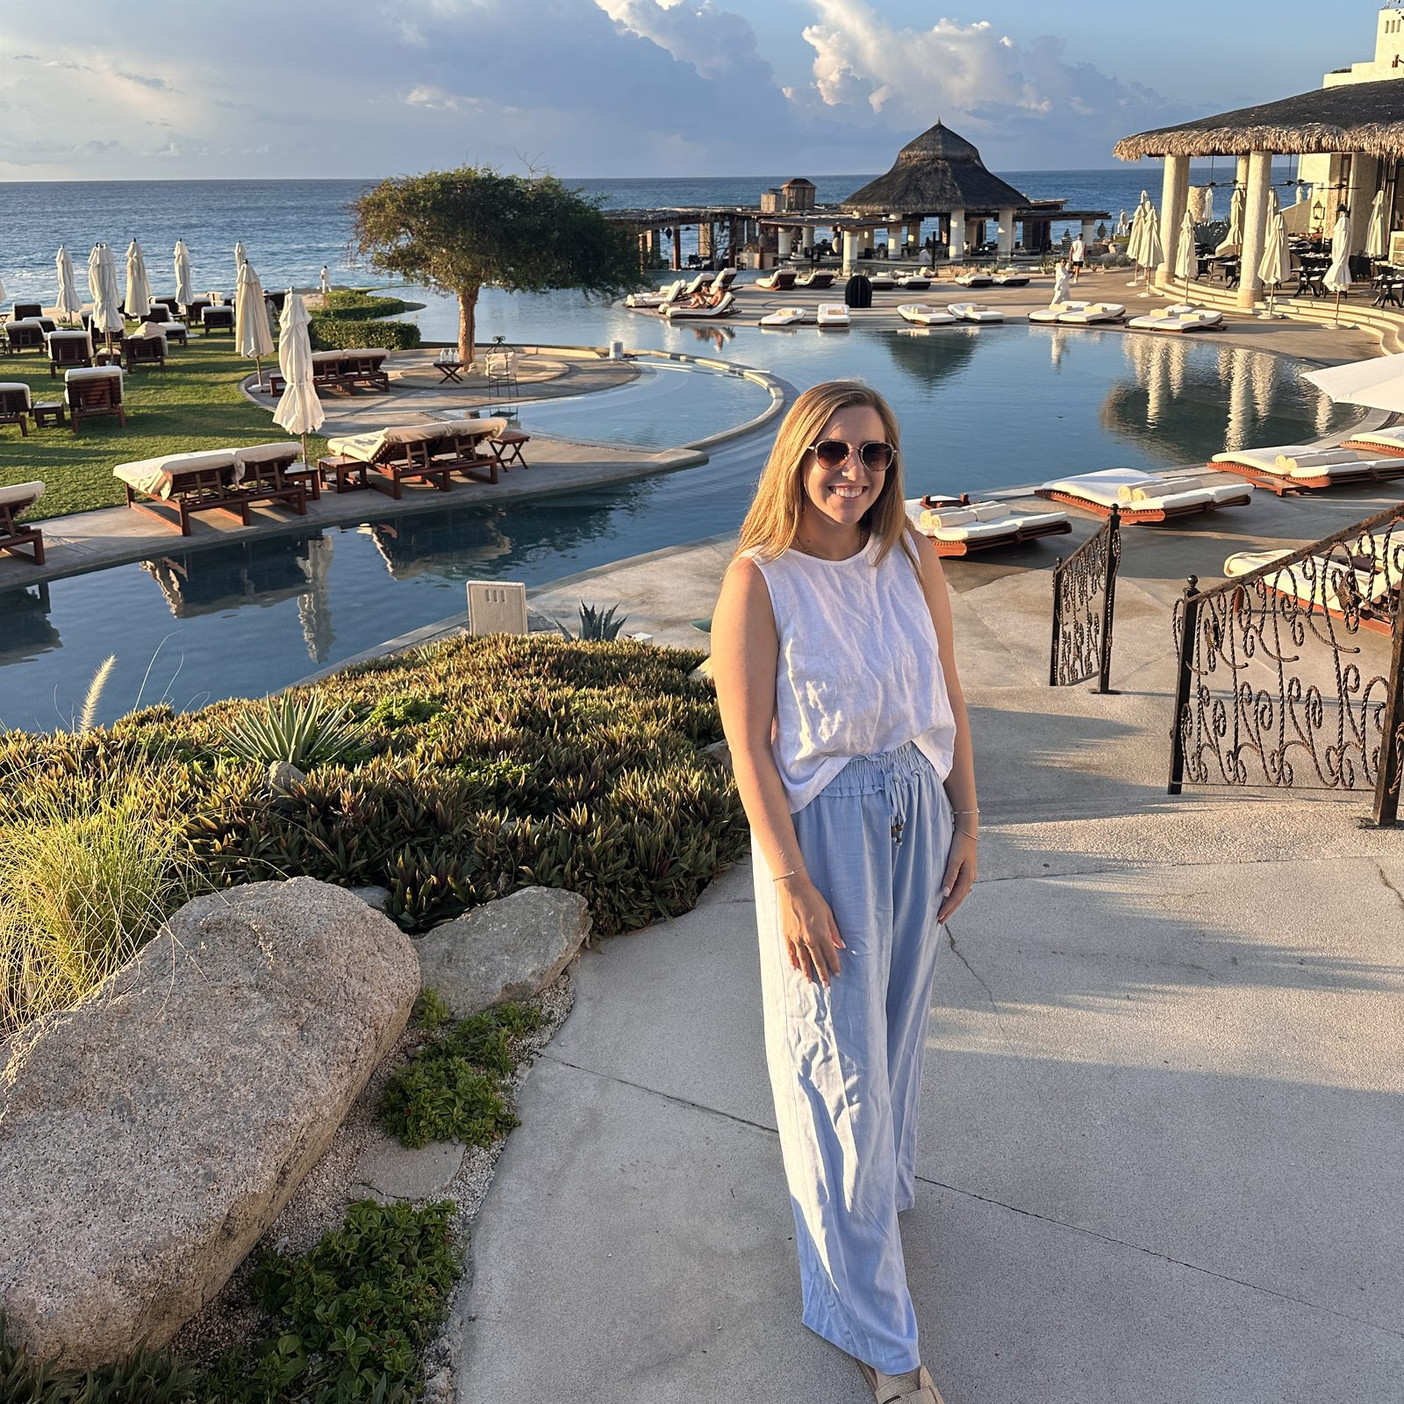
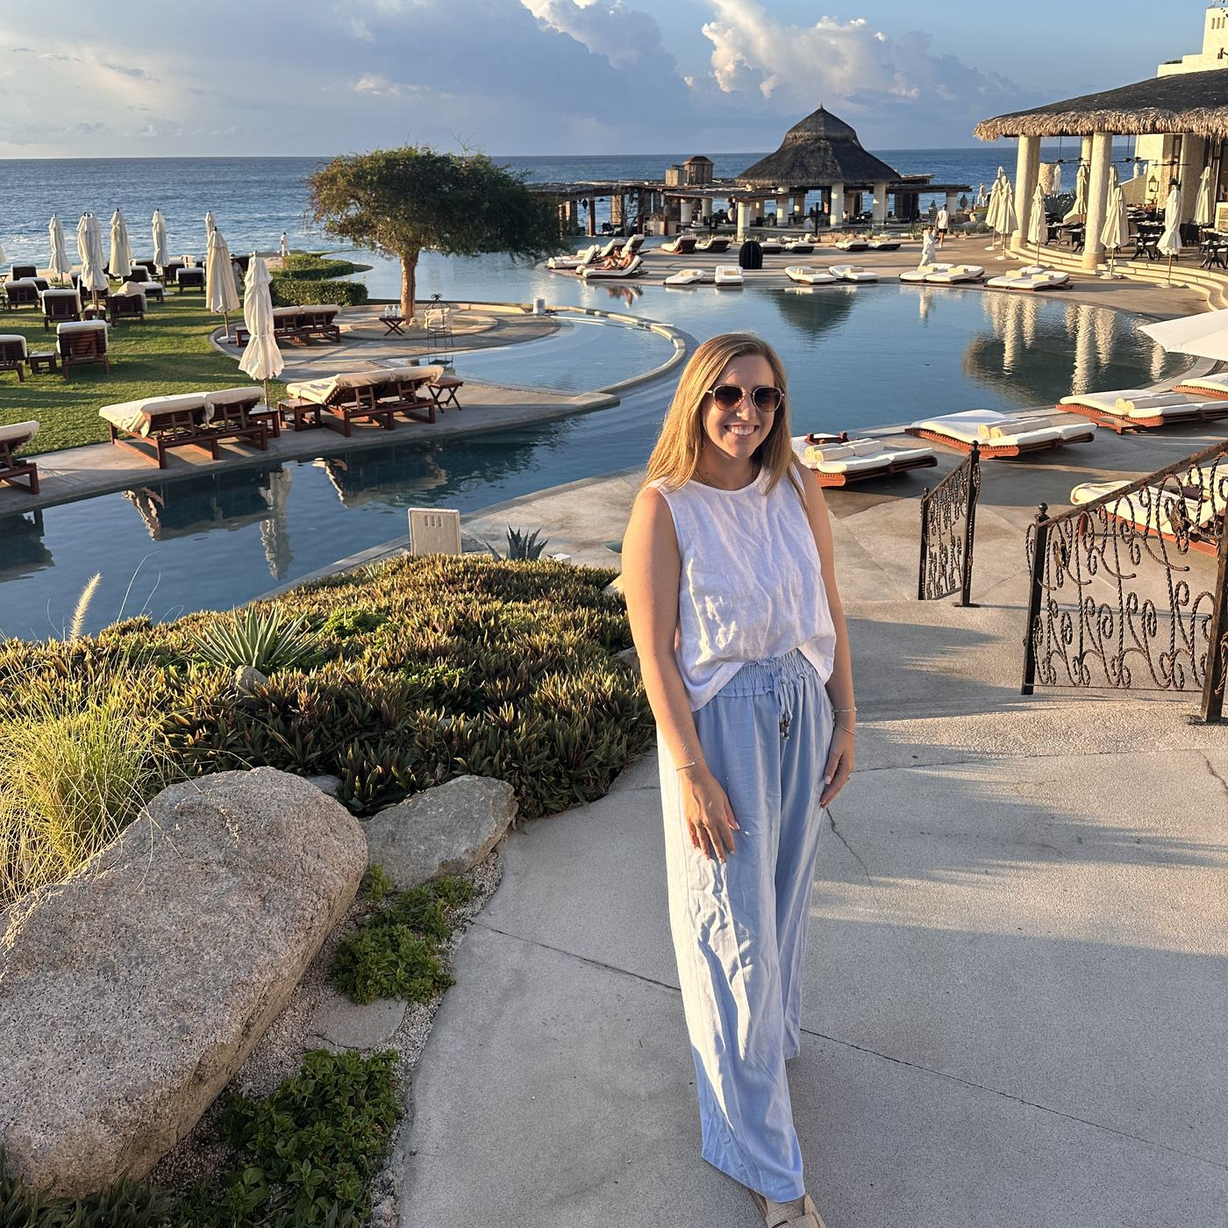
Rosewood Beyond post: lighter photos, ISO publish date, prerendered body
Body photos are resized copies in blog-images/rosewood-beyond (about 35%
lighter), lazy-loaded with width and height set; Little Dix Bay is a
landscape crop instead of a tall portrait. datePublished is ISO for the
BlogPosting schema. The page HTML now carries the title and article text,
so crawlers see it without running the script; the script fills the same
elements with the same content.

diff --git a/post/rosewood-beyond.html b/post/rosewood-beyond.html
@@ -65,13 +65,13 @@
          ================================================================ -->
     <section class="article-hero">
         <div class="article-hero-bg">
-            <img id="articleHeroImg" src="" alt="" fetchpriority="high">
+            <img id="articleHeroImg" src="/property-images/las-ventanas-al-paraiso-a-rosewood-resort/00-hero-infinity-pool-sunrise.jpg" alt="Rosewood Beyond 2026: How to Book Rosewood&#x27;s 30% Off Sale, and Which Hotels to Pick" width="2000" height="1502" fetchpriority="high">
             <div class="article-hero-scrim" aria-hidden="true"></div>
         </div>
         <div class="container article-hero-inner">
             <a href="/inspiration" class="article-hero-back">&larr; Inspiration</a>
-            <p class="article-hero-meta"><span id="articleDate"></span><span class="article-hero-dot" aria-hidden="true"></span><span id="articleReadTime"></span></p>
-            <h1 class="article-hero-title" id="articleTitle"></h1>
+            <p class="article-hero-meta"><span id="articleDate">November 2026</span><span class="article-hero-dot" aria-hidden="true"></span><span id="articleReadTime">8 min read</span></p>
+            <h1 class="article-hero-title" id="articleTitle">Rosewood Beyond 2026: How to Book Rosewood&#x27;s 30% Off Sale, and Which Hotels to Pick</h1>
             <ul class="article-hero-tags" id="articleTags" aria-label="Tags"></ul>
         </div>
     </section>
@@ -81,7 +81,174 @@
          ================================================================ -->
     <section class="article-section">
         <div class="container article-container">
-            <div class="article-body" id="articleBody"></div>
+            <div class="article-body" id="articleBody">
+<p>Rosewood almost never discounts. Once a year it does, for one week, and only through a small group of travel advisors. That week is Rosewood Beyond, and in 2026 it runs from November 3 to November 10.</p>
+<p>I just got back from <strong><a href="/hotels/las-ventanas-al-paraiso-a-rosewood-resort">Las Ventanas al Paraíso</a></strong> in Los Cabos, and I have been pricing Rosewoods for clients all week. Here is everything you need to know: what the offer is, who can actually book it, the real prices I pulled, and the hotels I would book first.</p>
+
+<h2>Rosewood Beyond 2026 at a glance</h2>
+<ul>
+<li><strong>The offer:</strong> 30% off the best available flexible rate at participating Rosewood hotels</li>
+<li><strong>Booking window:</strong> reservations confirmed November 3–10, 2026</li>
+<li><strong>Travel window:</strong> stays through June 30, 2027, subject to each hotel's blackout dates</li>
+<li><strong>Minimum stay:</strong> none</li>
+<li><strong>Rooms:</strong> rooms and suites only; houses, penthouses, villas and apartments are excluded</li>
+<li><strong>Who can book it:</strong> Rosewood Elite advisors only. The rate does not appear on Rosewood's website or on any public booking site</li>
+<li><strong>Extras:</strong> booked through a Rosewood Elite advisor, the rate can carry Rosewood Elite amenities such as daily breakfast, a hotel credit and an upgrade on arrival when available</li>
+</ul>
+
+<h2>What is Rosewood Beyond?</h2>
+<p>Rosewood Beyond is Rosewood Hotels &amp; Resorts' annual sale for its advisor partners. It takes 30% off a hotel's best available flexible rate, the price you would normally see with standard cancellation terms. It does not stack on top of advance-purchase rates, third-night-free offers or other promotions, which is exactly why the savings are real: the discount comes off the full, flexible price.</p>
+<p>Most Rosewood properties take part, from the Riviera Maya to Paris to Hong Kong. A handful sit it out, and I have listed them below.</p>
+
+<h2>Can you book Rosewood Beyond directly with Rosewood?</h2>
+<p>No, and this is the question I get most. Rosewood Beyond is only available through advisors in <a href="/post/get-extra-perks-at-any-rosewood-property">Rosewood Elite</a>, Rosewood's preferred-advisor program. Search Rosewood's own site this week and you will see the regular rates.</p>
+<p>Booking through an advisor does not mean booking through a middleman. Your reservation is made directly with the hotel, you pay the hotel, and the hotel knows you came through its Elite program, which is what unlocks the amenities.</p>
+
+<figure><img src="/blog-images/rosewood-beyond/las-ventanas-suite-terrace.jpg" alt="A private suite terrace at Las Ventanas al Paraíso, a Rosewood Resort, looking over the Sea of Cortez in Los Cabos" width="1600" height="933" loading="lazy"></figure>
+<h2>How to book the Rosewood Beyond rate</h2>
+<p>There are two ways to book it with me, and both get you the same rate.</p>
+<h3>Book it yourself in a couple of minutes</h3>
+<ol>
+<li>Go to <a href="/book">wanderbywilson.com/book</a> and open the booking portal.</li>
+<li>Search the Rosewood you want, plus your dates and number of guests.</li>
+<li>Choose your room and view the rates.</li>
+<li>Select the rate called <strong>Elite Exclusive Rosewood Beyond</strong>. That is the 30% off rate with the Elite amenities attached.</li>
+</ol>
+<p>If that rate does not appear for your dates, the hotel has blacked them out or the room category is excluded. Try moving a night or two, or send me your dates and I will look.</p>
+<h3>Or let me book it for you</h3>
+<p>Send me the hotel, your dates and the room you have in mind through the <a href="/inquire-hotel">hotel inquiry form</a>, and I will confirm the rate and book it. I will also tell you if a different room or a different week gets you more for the same money.</p>
+
+<h2>What 30% off looks like in real numbers</h2>
+<p>On November 3, 2026, I priced three beach Rosewoods I love, comparing the Elite Exclusive Rosewood Beyond rate with the regular Elite Exclusive rate for the same room and dates. Totals are for two guests and will move as rooms sell.</p>
+<ul>
+<li><strong><a href="/hotels/las-ventanas-al-paraiso-a-rosewood-resort">Las Ventanas al Paraíso</a>, Los Cabos:</strong> Oceanview Rooftop Terrace Junior Suite, February 24–28, 2027. $11,058.70 on Rosewood Beyond vs $15,786.40, about $4,700 less.</li>
+<li><strong><a href="/hotels/rosewood-mandarina">Rosewood Mandarina</a>, Riviera Nayarit:</strong> Oceanfront Mountain Studio Suite, February 12–16, 2027 (Presidents' Day weekend). $6,473.60 vs $9,248.00, about $2,774 less.</li>
+<li><strong><a href="/hotels/rosewood-little-dix-bay">Rosewood Little Dix Bay</a>, Virgin Gorda:</strong> Ocean View Cottage, four nights over MLK weekend 2027. About $6,894 vs $9,846, close to $3,000 less.</li>
+</ul>
+<p>Two of those are holiday weekends. Not every hotel blacks out peak dates, so it is worth checking the weeks you assume will be excluded.</p>
+
+<h2>The perks: Rosewood Beyond plus Rosewood Elite</h2>
+<p>Rosewood Beyond combines with Rosewood Elite amenities, and where a hotel offers a larger Elite credit, the larger credit applies. The package varies by property. On the Elite Exclusive Rosewood Beyond rate it typically includes:</p>
+<ul>
+<li>Daily breakfast for up to two guests per bedroom</li>
+<li>A hotel or resort credit ($125 at <a href="/hotels/las-ventanas-al-paraiso-a-rosewood-resort">Las Ventanas</a> and at <a href="/hotels/rosewood-mandarina">Mandarina</a>, for example)</li>
+<li>An upgrade on arrival, subject to availability</li>
+<li>Early check-in and late check-out, subject to availability</li>
+<li>A welcome amenity, and at some hotels a property-specific extra: a La Botica cocktail experience at <a href="/hotels/las-ventanas-al-paraiso-a-rosewood-resort">Las Ventanas</a>, an airport transfer at <a href="/hotels/rosewood-mandarina">Mandarina</a></li>
+</ul>
+<p>Rosewood also gives Elite bookings priority for upgrades, which matters most in the busy months when the better rooms go first.</p>
+
+<h2>Rosewood Beyond participating hotels</h2>
+<p>These are the participating properties on the 2026 list, rooms and suites only, subject to availability and blackout dates.</p>
+<h3>Americas</h3>
+<ul>
+<li><a href="/hotels/kona-village-a-rosewood-resort">Kona Village, A Rosewood Resort</a> (Hawaiʻi Island)</li>
+<li><a href="/hotels/las-ventanas-al-paraiso-a-rosewood-resort">Las Ventanas al Paraíso, A Rosewood Resort</a> (Los Cabos)</li>
+<li>Rosewood Baha Mar (Nassau, Bahamas)</li>
+<li>Rosewood Bermuda</li>
+<li>Rosewood Hotel Georgia (Vancouver)</li>
+<li>Rosewood Inn of the Anasazi (Santa Fe)</li>
+<li><a href="/hotels/rosewood-little-dix-bay">Rosewood Little Dix Bay</a> (Virgin Gorda, BVI)</li>
+<li><a href="/hotels/rosewood-mandarina">Rosewood Mandarina</a> (Riviera Nayarit, Mexico)</li>
+<li>Rosewood Mansion on Turtle Creek (Dallas)</li>
+<li><a href="/hotels/rosewood-mayakoba">Rosewood Mayakoba</a> (Riviera Maya, Mexico)</li>
+<li>Rosewood Miramar Beach (Montecito, California)</li>
+<li>Rosewood San Miguel de Allende</li>
+<li>Rosewood Sand Hill (Menlo Park, California)</li>
+<li>Rosewood São Paulo</li>
+<li>Rosewood Washington, D.C.</li>
+<li>The Carlyle, A Rosewood Hotel (New York)</li>
+</ul>
+<h3>Europe and the Middle East</h3>
+<ul>
+<li>Castiglion del Bosco (Tuscany)</li>
+<li>Hôtel de Crillon, A Rosewood Hotel (Paris)</li>
+<li>Rosewood Abu Dhabi</li>
+<li>Rosewood AMAALA (Saudi Arabia)</li>
+<li>Rosewood Amsterdam</li>
+<li>Rosewood Doha</li>
+<li>Rosewood Jeddah</li>
+<li>Rosewood London</li>
+<li>Rosewood Munich</li>
+<li>Rosewood Schloss Fuschl (Salzburg)</li>
+<li>Rosewood Vienna</li>
+<li>Rosewood Villa Magna (Madrid)</li>
+</ul>
+<h3>Asia</h3>
+<ul>
+<li>Rosewood Bangkok</li>
+<li>Rosewood Beijing</li>
+<li>Rosewood Guangzhou</li>
+<li>Rosewood Hong Kong</li>
+<li>Rosewood Luang Prabang</li>
+<li>Rosewood Miyakojima</li>
+<li>Rosewood Phnom Penh</li>
+<li>Rosewood Phuket</li>
+<li>Rosewood Sanya</li>
+</ul>
+<h3>Which Rosewood hotels are excluded?</h3>
+<p>Rosewood Courchevel Le Jardin Alpin, Rosewood Calistoga, The Chancery Rosewood in London, and Rosewood's three New Zealand lodges (Cape Kidnappers, Kauri Cliffs and Matakauri) are not part of the 2026 sale. Across every hotel, houses, penthouses, villas and apartments are excluded.</p>
+
+<h2>Where I would use Rosewood Beyond</h2>
+<p>The sale covers winter and spring, which is the best season for most of the beach Rosewoods. These are the ones I would book first, and who each one suits.</p>
+<figure><img src="/blog-images/rosewood-beyond/wilson-las-ventanas-al-paraiso-pools.jpg" alt="Wilson Schubert of Wander by Wilson in front of the pools at Las Ventanas al Paraíso, a Rosewood Resort, in Los Cabos" width="1400" height="1400" loading="lazy"></figure>
+<h3><a href="/hotels/las-ventanas-al-paraiso-a-rosewood-resort">Las Ventanas al Paraíso</a>, Los Cabos: for a honeymoon</h3>
+<p>This is the one I just came back from, and it is at the top of my list. We stayed in a Rooftop Terrace Suite with its own jacuzzi, and dinner under the lantern trees was my favorite night of the trip. Order the homemade tortillas at breakfast, find the little grotto pool, and watch for the staff walking the beach with popsicles in the afternoon.</p>
+
+<figure><img src="/blog-images/rosewood-beyond/rosewood-mandarina-oceanfront-suite-private-pool.jpg" alt="A suite terrace with its own private infinity plunge pool overlooking the Pacific at Rosewood Mandarina, Riviera Nayarit" width="1800" height="1350" loading="lazy"></figure>
+<h3><a href="/hotels/rosewood-mandarina">Rosewood Mandarina</a>, Riviera Nayarit: for the adventurous couple</h3>
+<p><a href="/hotels/rosewood-mandarina">Mandarina</a> sits where the jungle meets the Pacific, about 50 minutes from Puerto Vallarta, and every suite has its own plunge pool. Go for sunset cocktails at Barra Peñasco, ride horses down to the beach, try the jungle ziplines, and save a night for sushi at Toppu.</p>
+
+<figure><img src="/blog-images/rosewood-beyond/rosewood-little-dix-bay-reef-bay.jpg" alt="The calm, reef-protected bay at Rosewood Little Dix Bay on Virgin Gorda in the British Virgin Islands" width="1600" height="1200" loading="lazy"></figure>
+<h3><a href="/hotels/rosewood-little-dix-bay">Rosewood Little Dix Bay</a>, Virgin Gorda: for old-school Caribbean charm</h3>
+<p>Fewer than 100 rooms on 500 acres, with a bay protected by a reef, so the water stays calm and clear for snorkeling. Do not leave without a beach drop: the resort takes you by boat to a secluded beach of your own with a picnic.</p>
+
+<figure><img src="/blog-images/rosewood-beyond/rosewood-mayakoba-lagoon-suites.jpg" alt="Overwater suites on the lagoons at Rosewood Mayakoba in the Riviera Maya, Mexico" width="1600" height="1035" loading="lazy"></figure>
+<h3><a href="/hotels/rosewood-mayakoba">Rosewood Mayakoba</a>, Riviera Maya: for a family beach trip</h3>
+<p>Suites set along freshwater lagoons and the beach, with boats to get around the property and an easy transfer from Cancún. It is the Rosewood I suggest most often for families who want space and a real beach.</p>
+
+<figure><img src="/blog-images/rosewood-beyond/kona-village-pool-coast.jpg" alt="The pool, palms and black-sand coastline at Kona Village, A Rosewood Resort, on Hawaiʻi Island" width="1400" height="1048" loading="lazy"></figure>
+<h3><a href="/hotels/kona-village-a-rosewood-resort">Kona Village</a>, Hawaiʻi Island: for a slow, barefoot escape</h3>
+<p>Individual hale bungalows on the Kona coast, built around the resort's Hawaiian heritage. It is the right pick if you want Hawaiʻi to feel quiet.</p>
+<h3>Beyond the beach</h3>
+<ul>
+<li><strong>Rosewood Baha Mar, Nassau:</strong> a long weekend in the sun, a short flight from the East Coast</li>
+<li><strong>Rosewood Miramar Beach, Montecito:</strong> a California coast weekend</li>
+<li><strong>Hôtel de Crillon, Paris:</strong> Paris in the spring, on Place de la Concorde</li>
+<li><strong>Rosewood London:</strong> a city break with theatre nights</li>
+<li><strong>Castiglion del Bosco, Tuscany:</strong> a Brunello estate for wine lovers</li>
+<li><strong>Rosewood Schloss Fuschl, near Salzburg:</strong> a lakeside castle for an Alpine spring</li>
+</ul>
+
+<h2>Rosewood Beyond vs Amex Fine Hotels + Resorts</h2>
+<p>Many Rosewoods are also bookable through Amex Fine Hotels + Resorts, so it is fair to ask which is better this week. FHR adds its own amenities, but it books at the regular rate and needs an eligible card. The Rosewood Beyond rate is 30% lower than the regular flexible rate and needs no card at all. The two do not stack, but you can still pay with any card you like and earn its points as usual. For most stays booked between November 3 and 10, Rosewood Beyond wins on price alone.</p>
+
+<h2>Is Rosewood Beyond worth it?</h2>
+<p>If a Rosewood is anywhere on your list for the first half of 2027, yes. A few things I tell clients before they book:</p>
+<ul>
+<li><strong>Book now, plan later.</strong> The discount applies to the flexible rate, so you are not locked into an advance-purchase rate. Check your hotel's cancellation window before you book, since it varies by property.</li>
+<li><strong>Look at the room one category up.</strong> At 30% off, the next category often costs about the same as the room you were going to book at full price.</li>
+<li><strong>Check holiday dates anyway.</strong> Some hotels black out peak weeks, but not all of them.</li>
+<li><strong>Do not wait for the last day.</strong> The best rooms at the popular resorts go early in the week.</li>
+</ul>
+
+<h2>Rosewood Beyond FAQs</h2>
+<h3>When is the Rosewood Beyond sale in 2026?</h3>
+<p>Reservations must be confirmed between November 3 and November 10, 2026, for stays through June 30, 2027.</p>
+<h3>Can I book Rosewood Beyond on Rosewood's website?</h3>
+<p>No. It is only available through Rosewood Elite advisors. You can book it yourself on my <a href="/book">booking portal</a> or I can book it for you.</p>
+<h3>Is there a minimum stay?</h3>
+<p>No. A single night qualifies.</p>
+<h3>Which rooms are excluded?</h3>
+<p>Houses, penthouses, villas and apartments. Regular rooms and suites are eligible, subject to availability and blackout dates.</p>
+<h3>Do I still get breakfast and the hotel credit?</h3>
+<p>On the Elite Exclusive Rosewood Beyond rate, yes, the hotel's Rosewood Elite amenities are included. The exact credit and extras vary by hotel.</p>
+<h3>When is the next Rosewood sale?</h3>
+<p>Rosewood runs its sale once a year, around November. I update this guide each year as soon as the dates are announced.</p>
+
+<p>Rosewood Beyond only runs until November 10. If you already know which Rosewood you want, <a href="/book">book the rate here</a>. If you are still deciding, send me your dates through the <a href="/inquire-hotel">hotel inquiry form</a> and I will tell you where the rate goes furthest.</p>
+
+            </div>
 
             <div class="article-cta">
                 <p class="article-cta-eyebrow">Inspired to go?</p>

diff --git a/blog-data-v17.js b/blog-data-v17.js
@@ -12,6 +12,7 @@ const BLOG_POSTS = {
         dek: "Rosewood's once-a-year sale takes 30% off participating hotels for stays through June 2027. How it works, what I priced, and where I would book.",
         heroImage: "/property-images/las-ventanas-al-paraiso-a-rosewood-resort/00-hero-infinity-pool-sunrise.jpg",
         date: "November 2026",
+        datePublished: "2026-11-04",
         readTime: "8 min read",
         tags: ["Rosewood", "Hotel Deals", "Travel Tips"],
         location: "Worldwide",
@@ -39,7 +40,7 @@ const BLOG_POSTS = {
 <p>No, and this is the question I get most. Rosewood Beyond is only available through advisors in <a href="/post/get-extra-perks-at-any-rosewood-property">Rosewood Elite</a>, Rosewood's preferred-advisor program. Search Rosewood's own site this week and you will see the regular rates.</p>
 <p>Booking through an advisor does not mean booking through a middleman. Your reservation is made directly with the hotel, you pay the hotel, and the hotel knows you came through its Elite program, which is what unlocks the amenities.</p>
 
-<figure><img src="/property-images/las-ventanas-al-paraiso-a-rosewood-resort/02-suite-terrace-ocean-view.jpg" alt="A private suite terrace at Las Ventanas al Paraíso, a Rosewood Resort, looking over the Sea of Cortez in Los Cabos"></figure>
+<figure><img src="/blog-images/rosewood-beyond/las-ventanas-suite-terrace.jpg" alt="A private suite terrace at Las Ventanas al Paraíso, a Rosewood Resort, looking over the Sea of Cortez in Los Cabos" width="1600" height="933" loading="lazy"></figure>
 <h2>How to book the Rosewood Beyond rate</h2>
 <p>There are two ways to book it with me, and both get you the same rate.</p>
 <h3>Book it yourself in a couple of minutes</h3>
@@ -126,23 +127,23 @@ const BLOG_POSTS = {
 
 <h2>Where I would use Rosewood Beyond</h2>
 <p>The sale covers winter and spring, which is the best season for most of the beach Rosewoods. These are the ones I would book first, and who each one suits.</p>
-<figure><img src="/blog-images/rosewood-beyond/wilson-las-ventanas-al-paraiso-pools.jpg" alt="Wilson Schubert of Wander by Wilson in front of the pools at Las Ventanas al Paraíso, a Rosewood Resort, in Los Cabos"></figure>
+<figure><img src="/blog-images/rosewood-beyond/wilson-las-ventanas-al-paraiso-pools.jpg" alt="Wilson Schubert of Wander by Wilson in front of the pools at Las Ventanas al Paraíso, a Rosewood Resort, in Los Cabos" width="1400" height="1400" loading="lazy"></figure>
 <h3><a href="/hotels/las-ventanas-al-paraiso-a-rosewood-resort">Las Ventanas al Paraíso</a>, Los Cabos: for a honeymoon</h3>
 <p>This is the one I just came back from, and it is at the top of my list. We stayed in a Rooftop Terrace Suite with its own jacuzzi, and dinner under the lantern trees was my favorite night of the trip. Order the homemade tortillas at breakfast, find the little grotto pool, and watch for the staff walking the beach with popsicles in the afternoon.</p>
 
-<figure><img src="/blog-images/rosewood-beyond/rosewood-mandarina-oceanfront-suite-private-pool.jpg" alt="A suite terrace with its own private infinity plunge pool overlooking the Pacific at Rosewood Mandarina, Riviera Nayarit"></figure>
+<figure><img src="/blog-images/rosewood-beyond/rosewood-mandarina-oceanfront-suite-private-pool.jpg" alt="A suite terrace with its own private infinity plunge pool overlooking the Pacific at Rosewood Mandarina, Riviera Nayarit" width="1800" height="1350" loading="lazy"></figure>
 <h3><a href="/hotels/rosewood-mandarina">Rosewood Mandarina</a>, Riviera Nayarit: for the adventurous couple</h3>
 <p><a href="/hotels/rosewood-mandarina">Mandarina</a> sits where the jungle meets the Pacific, about 50 minutes from Puerto Vallarta, and every suite has its own plunge pool. Go for sunset cocktails at Barra Peñasco, ride horses down to the beach, try the jungle ziplines, and save a night for sushi at Toppu.</p>
 
-<figure><img src="/property-images/rosewood-little-dix-bay/04-bay-view.jpg" alt="The calm, reef-protected bay at Rosewood Little Dix Bay on Virgin Gorda in the British Virgin Islands"></figure>
+<figure><img src="/blog-images/rosewood-beyond/rosewood-little-dix-bay-reef-bay.jpg" alt="The calm, reef-protected bay at Rosewood Little Dix Bay on Virgin Gorda in the British Virgin Islands" width="1600" height="1200" loading="lazy"></figure>
 <h3><a href="/hotels/rosewood-little-dix-bay">Rosewood Little Dix Bay</a>, Virgin Gorda: for old-school Caribbean charm</h3>
 <p>Fewer than 100 rooms on 500 acres, with a bay protected by a reef, so the water stays calm and clear for snorkeling. Do not leave without a beach drop: the resort takes you by boat to a secluded beach of your own with a picnic.</p>
 
-<figure><img src="/property-images/rosewood-mayakoba/04-overwater-lagoon-suites.jpg" alt="Overwater suites on the lagoons at Rosewood Mayakoba in the Riviera Maya, Mexico"></figure>
+<figure><img src="/blog-images/rosewood-beyond/rosewood-mayakoba-lagoon-suites.jpg" alt="Overwater suites on the lagoons at Rosewood Mayakoba in the Riviera Maya, Mexico" width="1600" height="1035" loading="lazy"></figure>
 <h3><a href="/hotels/rosewood-mayakoba">Rosewood Mayakoba</a>, Riviera Maya: for a family beach trip</h3>
 <p>Suites set along freshwater lagoons and the beach, with boats to get around the property and an easy transfer from Cancún. It is the Rosewood I suggest most often for families who want space and a real beach.</p>
 
-<figure><img src="/property-images/kona-village-a-rosewood-resort/00-hero.jpg" alt="The pool, palms and black-sand coastline at Kona Village, A Rosewood Resort, on Hawaiʻi Island"></figure>
+<figure><img src="/blog-images/rosewood-beyond/kona-village-pool-coast.jpg" alt="The pool, palms and black-sand coastline at Kona Village, A Rosewood Resort, on Hawaiʻi Island" width="1400" height="1048" loading="lazy"></figure>
 <h3><a href="/hotels/kona-village-a-rosewood-resort">Kona Village</a>, Hawaiʻi Island: for a slow, barefoot escape</h3>
 <p>Individual hale bungalows on the Kona coast, built around the resort's Hawaiian heritage. It is the right pick if you want Hawaiʻi to feel quiet.</p>
 <h3>Beyond the beach</h3>
